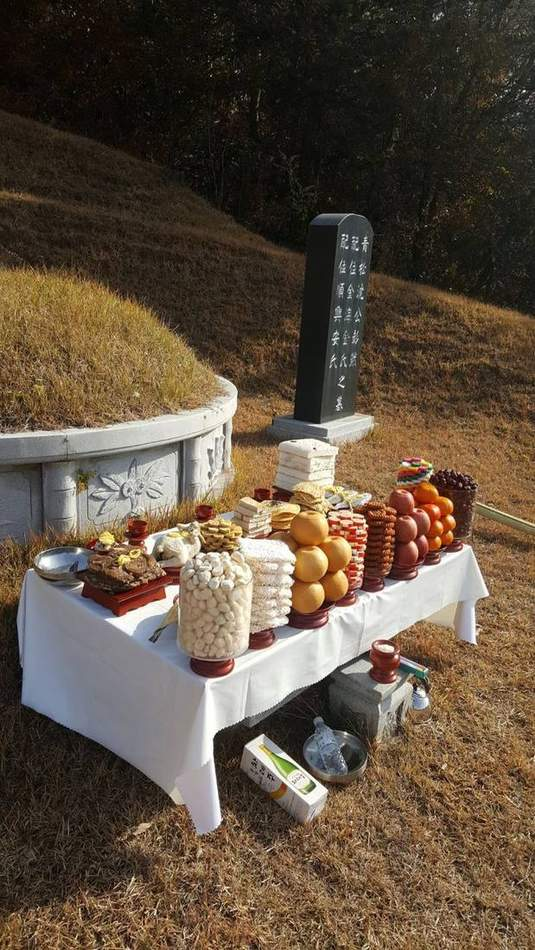
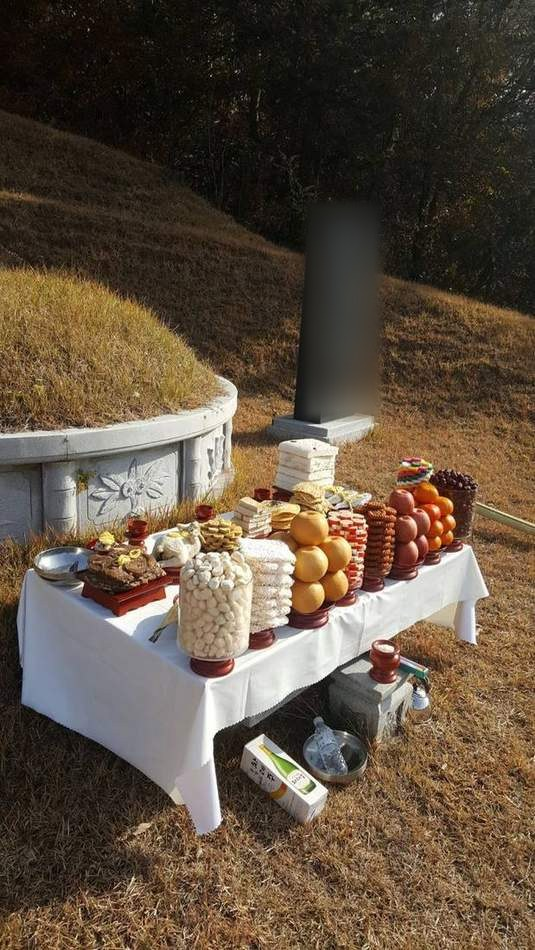
사진 개인정보 가림: 얼굴·번호판·비석 글씨 (4장)
도메인 구매 전 점검에서, 게시 중인 사진 중 규칙("얼굴·이름이 보이는 묘비 금지")에
걸리는 네 장을 원본 해상도로 확인하고 사장님 확인 후 모두 가렸다.

- images/menu-sije-3.jpg: 남성 얼굴·어깨, 승합차 번호판
- images/album/sije-02.jpg: 비석 글씨면
- images/album/sije-12.jpg: 비석 (성씨·본관)
- images/album/sije-18.jpg: 상석 글씨 줄

흐림은 되돌릴 수 없게 넣었다(아주 작게 줄여 정보를 버린 뒤 다시 키워 흐림).
바뀐 픽셀이 흐림 영역 밖에 하나도 없음을 확인 — 음식 부분은 그대로.
다시 저장하며 촬영정보(EXIF)는 넘기지 않았다. 공개 사진 84장 모두 GPS 없음도 확인.

손님 폰에 가리기 전 사진이 남지 않도록:
- index.html: menu-sije-3 ?v=10 -> 11, 갤러리 세 장에 ?v=2 새로 붙임
- sw.js: CACHE foodbell-v5 -> v6 (옛 캐시에 저장된 사진을 지운다)

주의: 공개 저장소 기록에는 가리기 전 원본이 남아 있다. 기록에서까지 지울지는 따로 정한다.

Changed region(s): [[0.5682, 0.2137, 0.7178, 0.4579]]

diff --git a/index.html b/index.html
@@ -153,7 +153,7 @@
             </div>
           </article>
           <article class="menu-card">
-            <button type="button" class="menu-card__thumb" data-full="images/menu-sije-3.jpg?v=10"><img src="images/menu-sije-3.jpg?v=10" alt="공원묘지 잔디밭에 병풍을 세우고 긴 상에 차린 시제 출장 상차림" loading="lazy"></button>
+            <button type="button" class="menu-card__thumb" data-full="images/menu-sije-3.jpg?v=11"><img src="images/menu-sije-3.jpg?v=11" alt="공원묘지 잔디밭에 병풍을 세우고 긴 상에 차린 시제 출장 상차림" loading="lazy"></button>
             <div class="menu-card__body">
               <h3>공원묘지 출장 상차림</h3>
               <p>문중 산소, 공원묘지 등 어디든 직접 찾아가 상을 차려드립니다.</p>
@@ -175,7 +175,7 @@
         </button>
         <div class="album" id="album-sije">
           <button class="album__item" type="button" data-src="images/album/sije-01.jpg"><img src="images/album/sije-01.jpg" alt="시제상차림 시공 사례 1" loading="lazy"></button>
-          <button class="album__item" type="button" data-src="images/album/sije-02.jpg"><img src="images/album/sije-02.jpg" alt="시제상차림 시공 사례 2" loading="lazy"></button>
+          <button class="album__item" type="button" data-src="images/album/sije-02.jpg?v=2"><img src="images/album/sije-02.jpg?v=2" alt="시제상차림 시공 사례 2" loading="lazy"></button>
           <button class="album__item" type="button" data-src="images/album/sije-03.jpg"><img src="images/album/sije-03.jpg" alt="시제상차림 시공 사례 3" loading="lazy"></button>
           <button class="album__item" type="button" data-src="images/album/sije-04.jpg"><img src="images/album/sije-04.jpg" alt="시제상차림 시공 사례 4" loading="lazy"></button>
           <button class="album__item" type="button" data-src="images/album/sije-05.jpg"><img src="images/album/sije-05.jpg" alt="시제상차림 시공 사례 5" loading="lazy"></button>
@@ -185,13 +185,13 @@
           <button class="album__item" type="button" data-src="images/album/sije-09.jpg"><img src="images/album/sije-09.jpg" alt="시제상차림 시공 사례 9" loading="lazy"></button>
           <button class="album__item" type="button" data-src="images/album/sije-10.jpg"><img src="images/album/sije-10.jpg" alt="시제상차림 시공 사례 10" loading="lazy"></button>
           <button class="album__item" type="button" data-src="images/album/sije-11.jpg"><img src="images/album/sije-11.jpg" alt="시제상차림 시공 사례 11" loading="lazy"></button>
-          <button class="album__item" type="button" data-src="images/album/sije-12.jpg"><img src="images/album/sije-12.jpg" alt="시제상차림 시공 사례 12" loading="lazy"></button>
+          <button class="album__item" type="button" data-src="images/album/sije-12.jpg?v=2"><img src="images/album/sije-12.jpg?v=2" alt="시제상차림 시공 사례 12" loading="lazy"></button>
           <button class="album__item" type="button" data-src="images/album/sije-13.jpg"><img src="images/album/sije-13.jpg" alt="시제상차림 시공 사례 13" loading="lazy"></button>
           <button class="album__item" type="button" data-src="images/album/sije-14.jpg"><img src="images/album/sije-14.jpg" alt="시제상차림 시공 사례 14" loading="lazy"></button>
           <button class="album__item" type="button" data-src="images/album/sije-15.jpg"><img src="images/album/sije-15.jpg" alt="시제상차림 시공 사례 15" loading="lazy"></button>
           <button class="album__item" type="button" data-src="images/album/sije-16.jpg"><img src="images/album/sije-16.jpg" alt="시제상차림 시공 사례 16" loading="lazy"></button>
           <button class="album__item" type="button" data-src="images/album/sije-17.jpg"><img src="images/album/sije-17.jpg" alt="시제상차림 시공 사례 17" loading="lazy"></button>
-          <button class="album__item" type="button" data-src="images/album/sije-18.jpg"><img src="images/album/sije-18.jpg" alt="시제상차림 시공 사례 18" loading="lazy"></button>
+          <button class="album__item" type="button" data-src="images/album/sije-18.jpg?v=2"><img src="images/album/sije-18.jpg?v=2" alt="시제상차림 시공 사례 18" loading="lazy"></button>
           <button class="album__item" type="button" data-src="images/album/sije-19.jpg"><img src="images/album/sije-19.jpg" alt="시제상차림 시공 사례 19" loading="lazy"></button>
           <button class="album__item" type="button" data-src="images/album/sije-20.jpg?v=10"><img src="images/album/sije-20.jpg?v=10" alt="시제상차림 시공 사례 20" loading="lazy"></button>
           <button class="album__item" type="button" data-src="images/album/sije-21.jpg"><img src="images/album/sije-21.jpg" alt="시제상차림 시공 사례 21" loading="lazy"></button>

diff --git a/sw.js b/sw.js
@@ -1,6 +1,6 @@
 /* 푸드벨 서비스 워커 — 오프라인 기본 지원 + 홈 화면 앱 실행
    내용을 크게 바꿨을 때는 아래 CACHE 버전 숫자를 올리세요. */
-const CACHE = 'foodbell-v5';
+const CACHE = 'foodbell-v6';
 
 /* 처음 설치할 때 미리 받아두는 최소한의 파일 (앱 껍데기) */
 const PRECACHE = [
